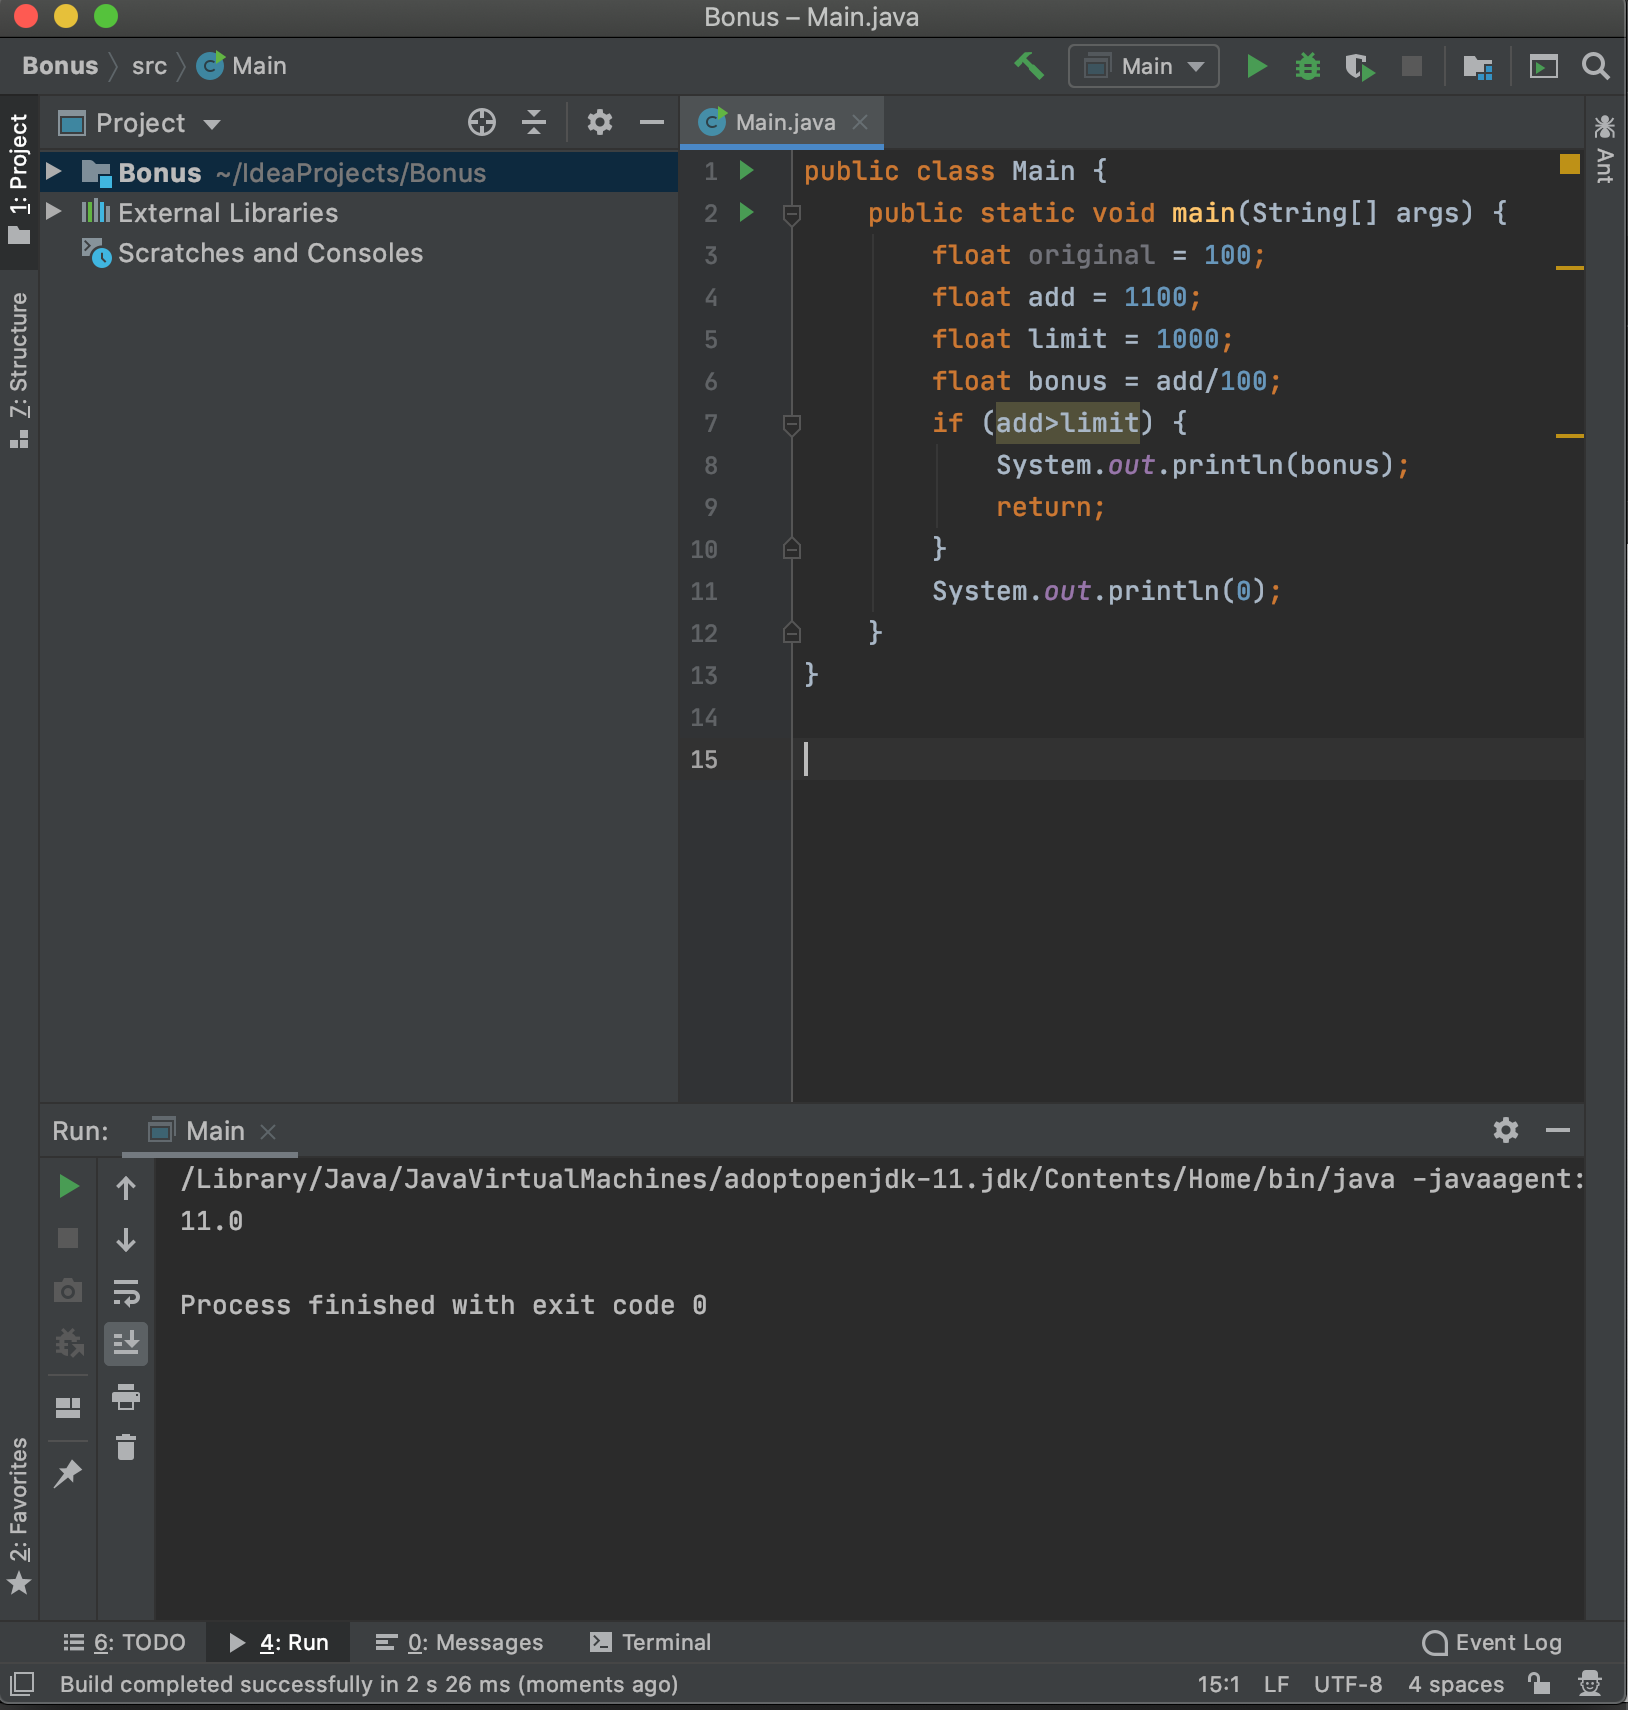
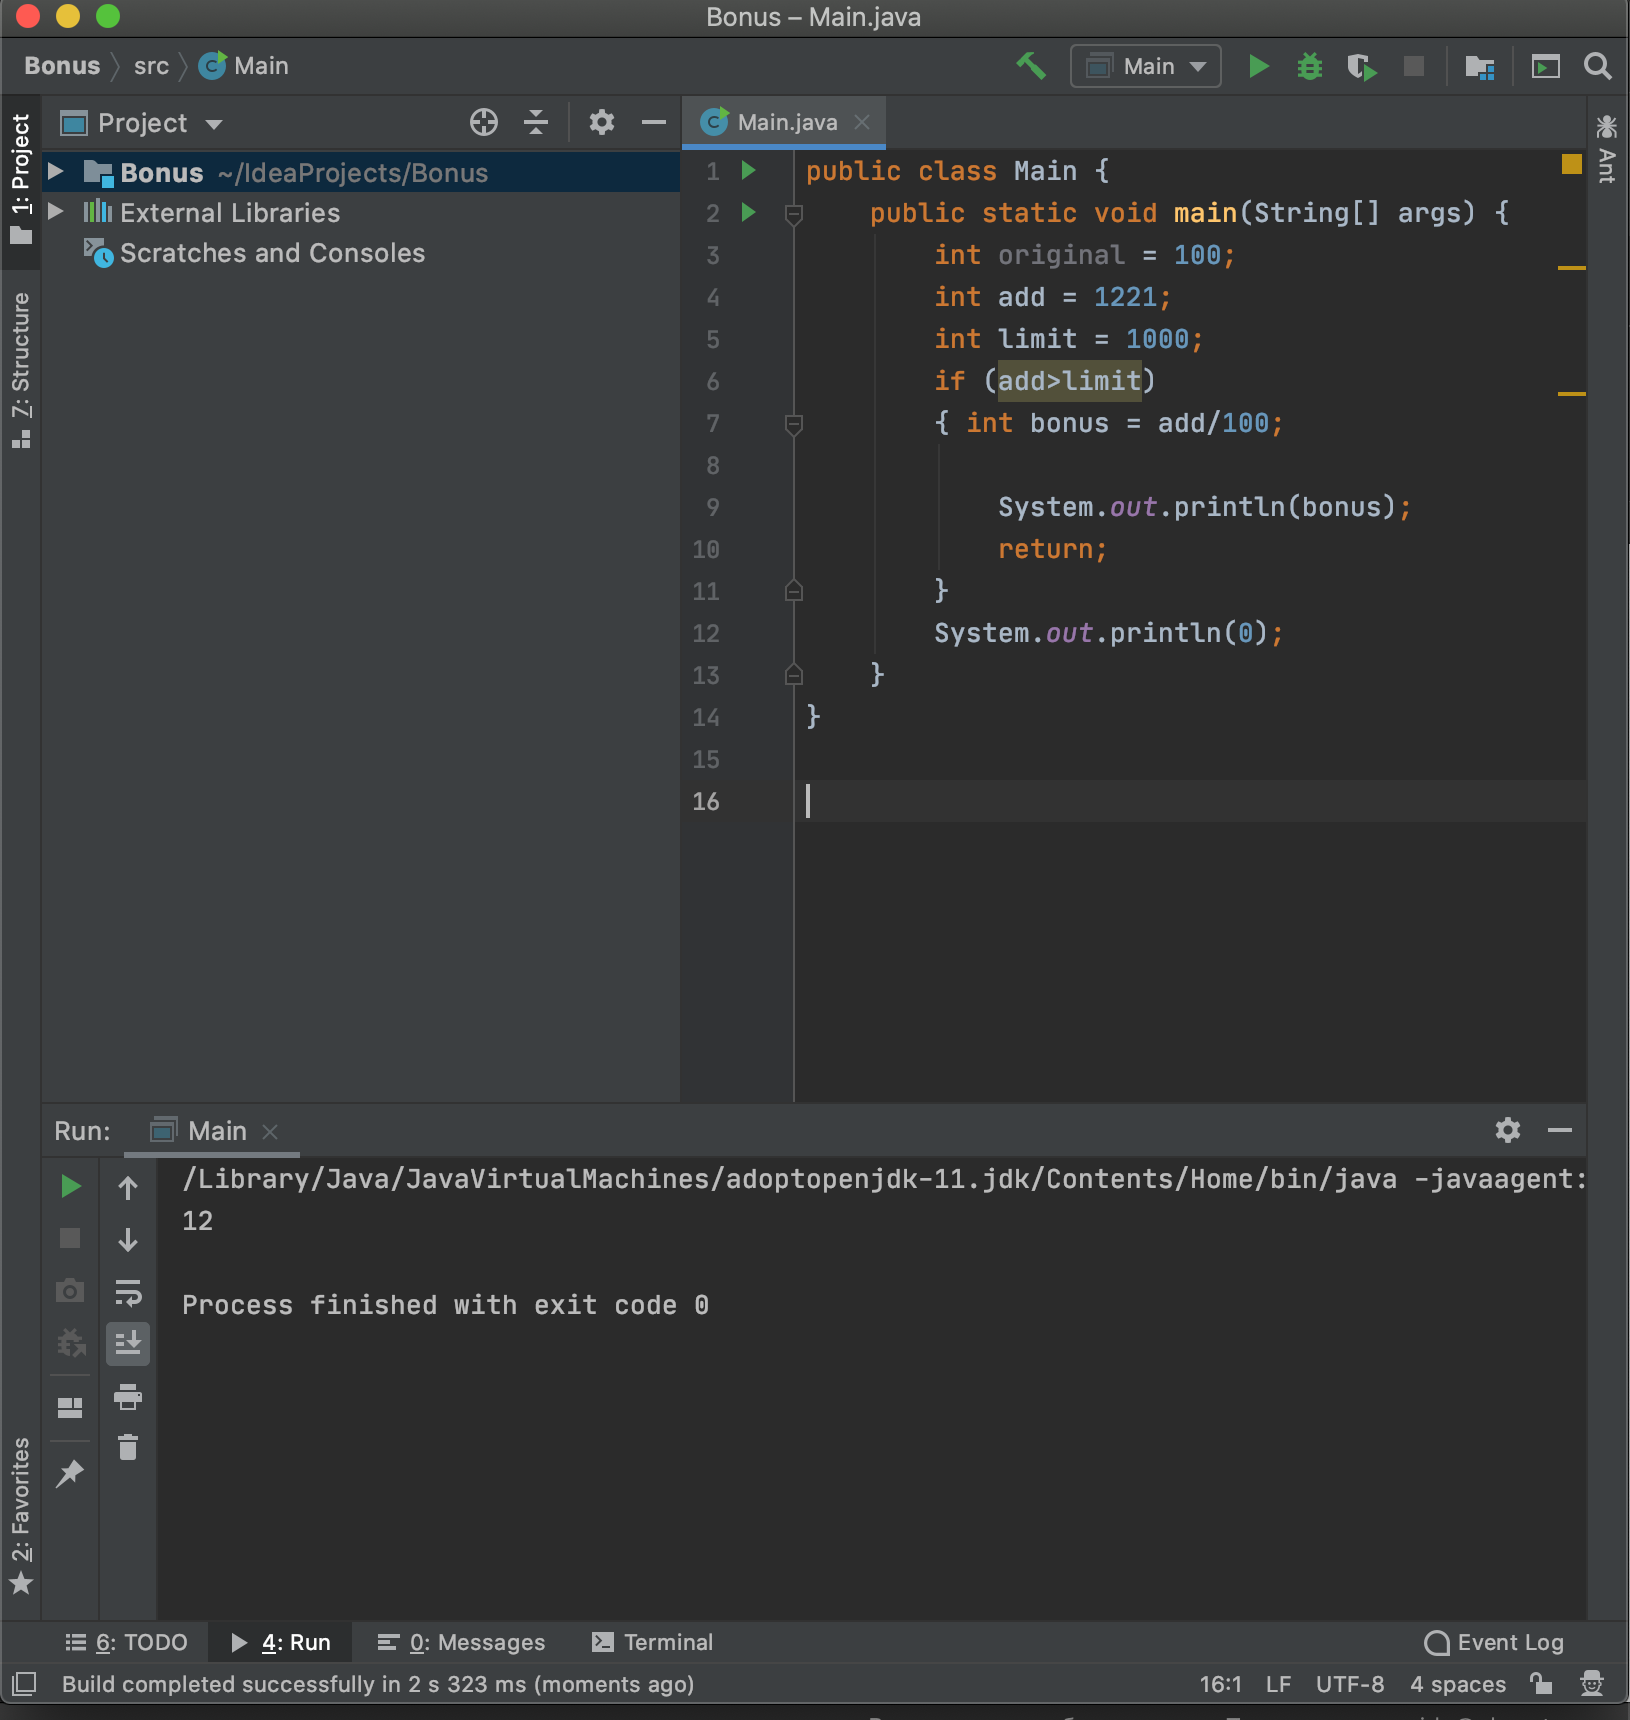
080601

diff --git a/Main.java b/Main.java
@@ -1,10 +1,11 @@
 public class Main {
     public static void main(String[] args) {
-        float original = 100;
-        float add = 1100;
-        float limit = 1000;
-        float bonus = add/100;
-        if (add>limit) {
+        int original = 100;
+        int add = 1221;
+        int limit = 1000;
+        if (add>limit)
+        { int bonus = add/100;
+
             System.out.println(bonus);
             return;
         }
